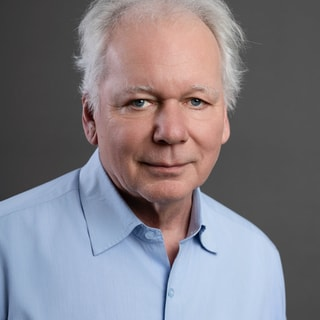
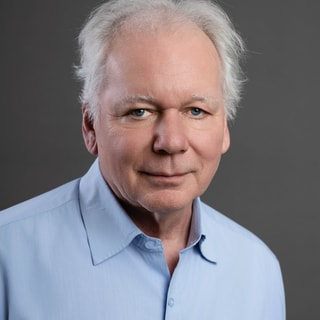
style: Update team member images across all resolutions with new high-resolution files, ensuring improved quality and consistency in visual presentation.

diff --git a/scripts/normalize_team_images_640.js b/scripts/normalize_team_images_640.js
@@ -89,7 +89,7 @@ async function main() {
         // damit der Kopf im späteren Ausschnitt etwas weiter nach unten rückt
         // und oben nicht abgeschnitten wirkt.
         if (ORIGINAL_SRC_MAP[out] && height > width) {
-          const bias = Math.round(cropSize * 0.06); // ca. 6 % nach oben schieben
+          const bias = Math.round(cropSize * 0.09); // ca. 9 % nach oben schieben
           top = Math.max(0, top - bias);
         }
         let pipeline = sharp(srcPath)

diff --git a/styles/index.css b/styles/index.css
@@ -2756,7 +2756,7 @@ footer::before {
 }
 
 .member-photo {
-    aspect-ratio: 1;
+    aspect-ratio: 4/5;
     background: var(--color-team-photo-bg);
     display: flex;
     align-items: center;
